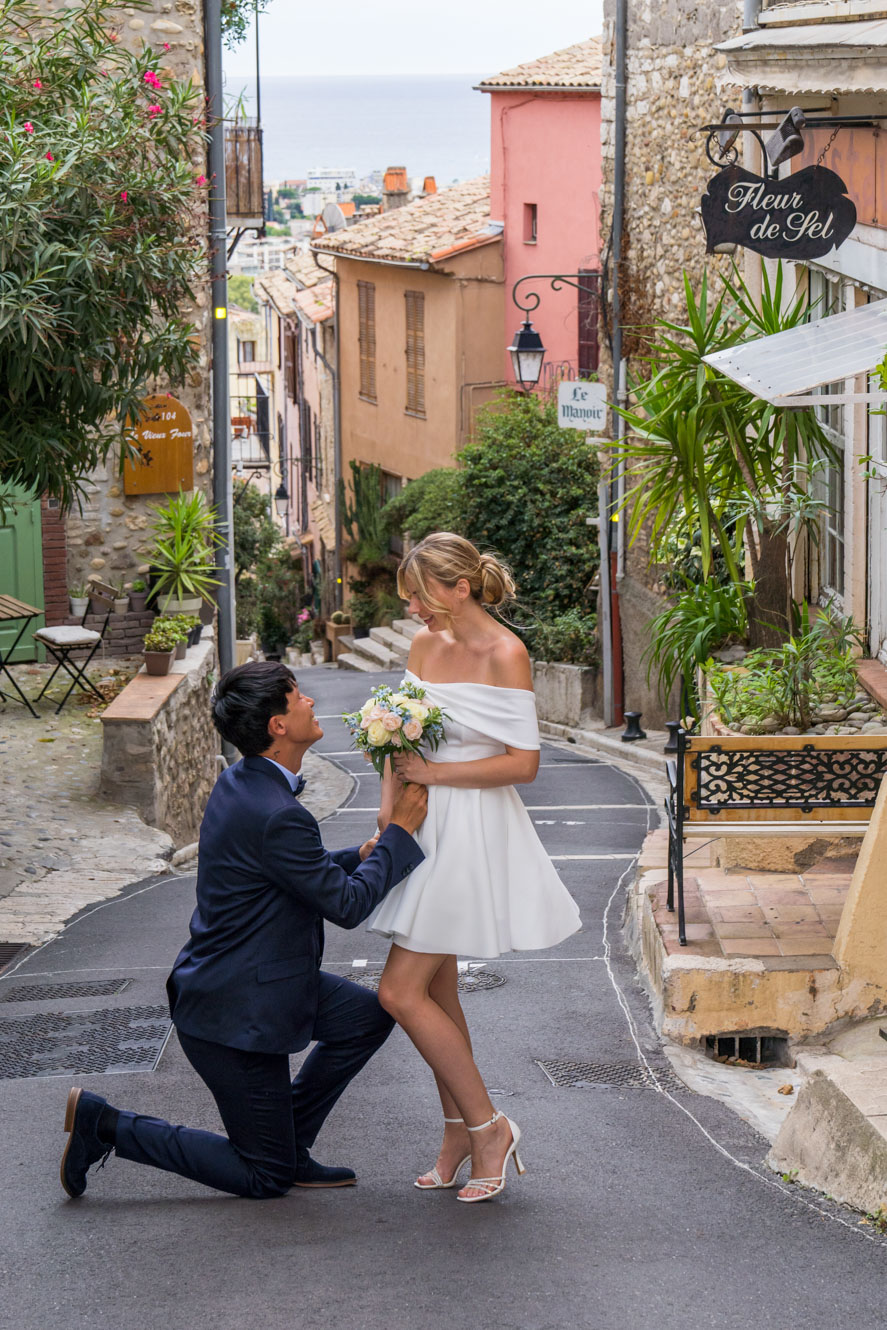
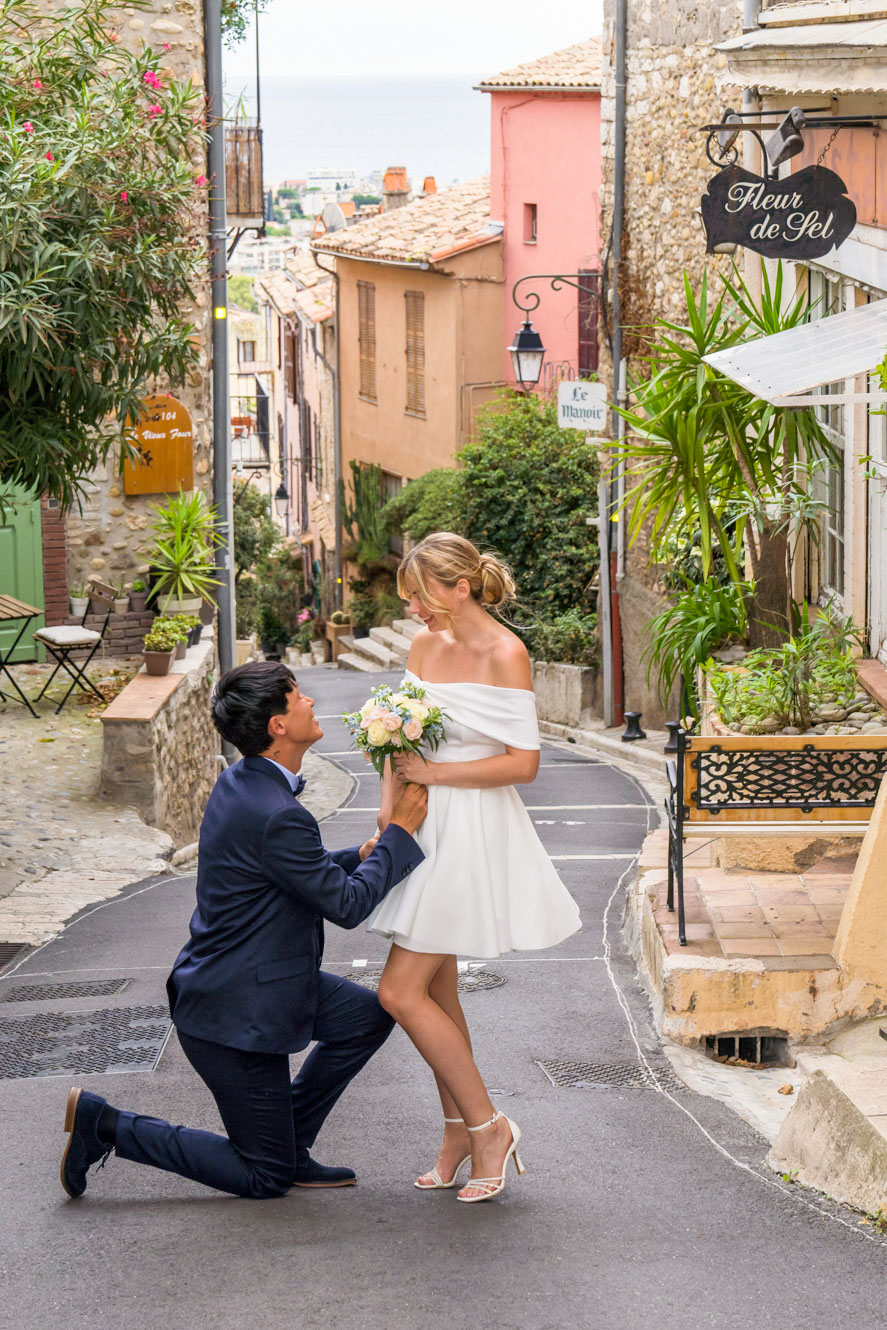
photo

diff --git a/src/components/TopNav.jsx b/src/components/TopNav.jsx
@@ -7,9 +7,9 @@ const NAV_LINKS = {
   FR: [
     { path: '/mariage',       label: 'Mariage'       },
     { path: '/immobilier',    label: 'Immobilier'    },
-    { path: '/communication', label: 'Communication' },
+    { path: '/communication', label: 'Entreprise' },
     { path: '/spectacle',     label: 'Événement'     },
-    { path: '/famille',       label: 'Portrait'      },
+    { path: '/famille',       label: 'Famille'      },
   ],
   EN: [
     { path: '/mariage',       label: 'Wedding'       },